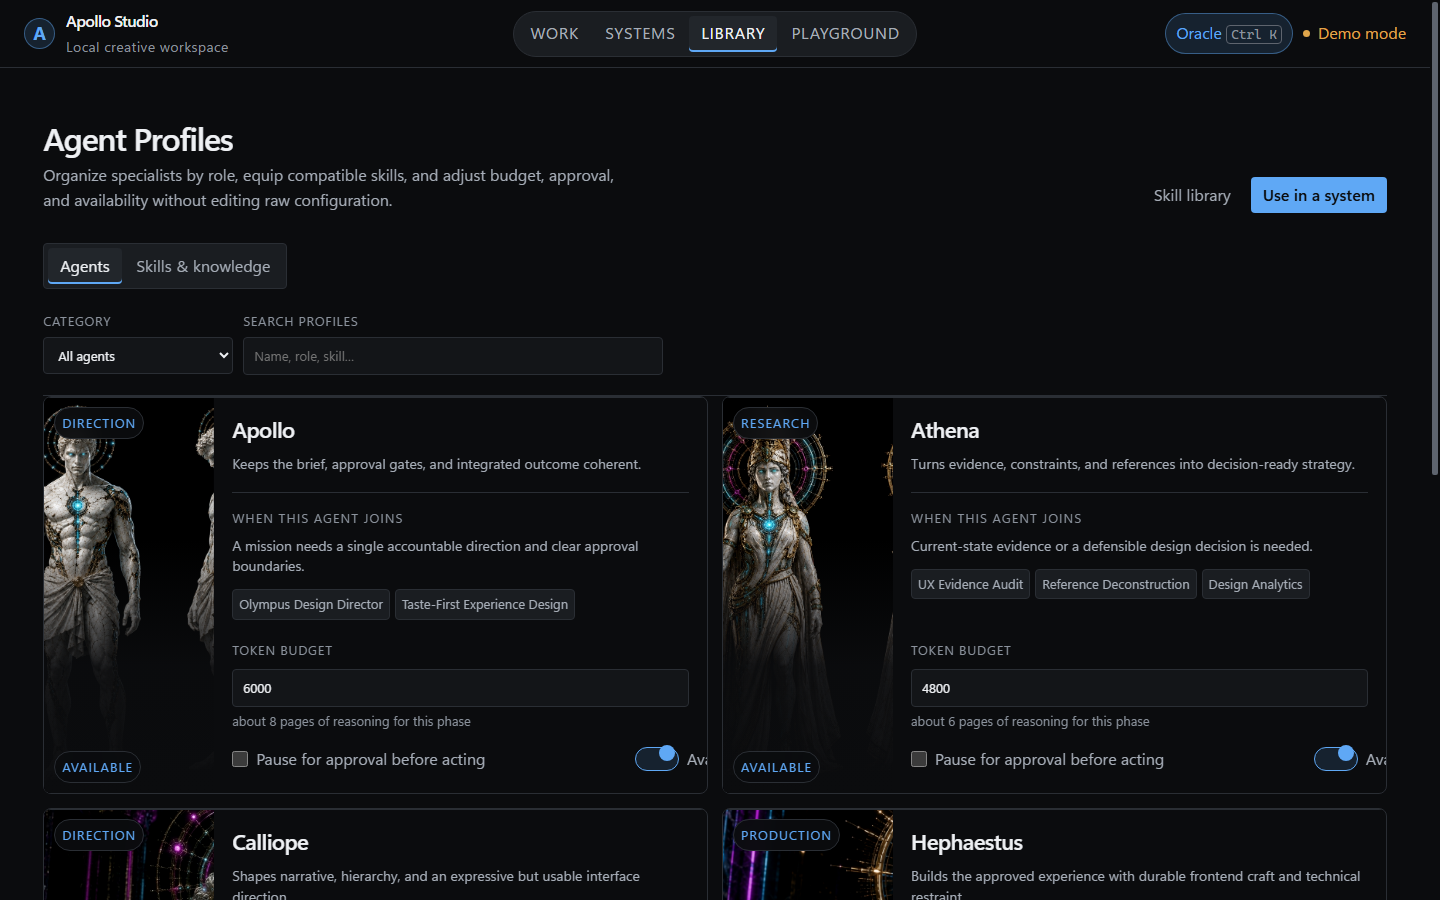
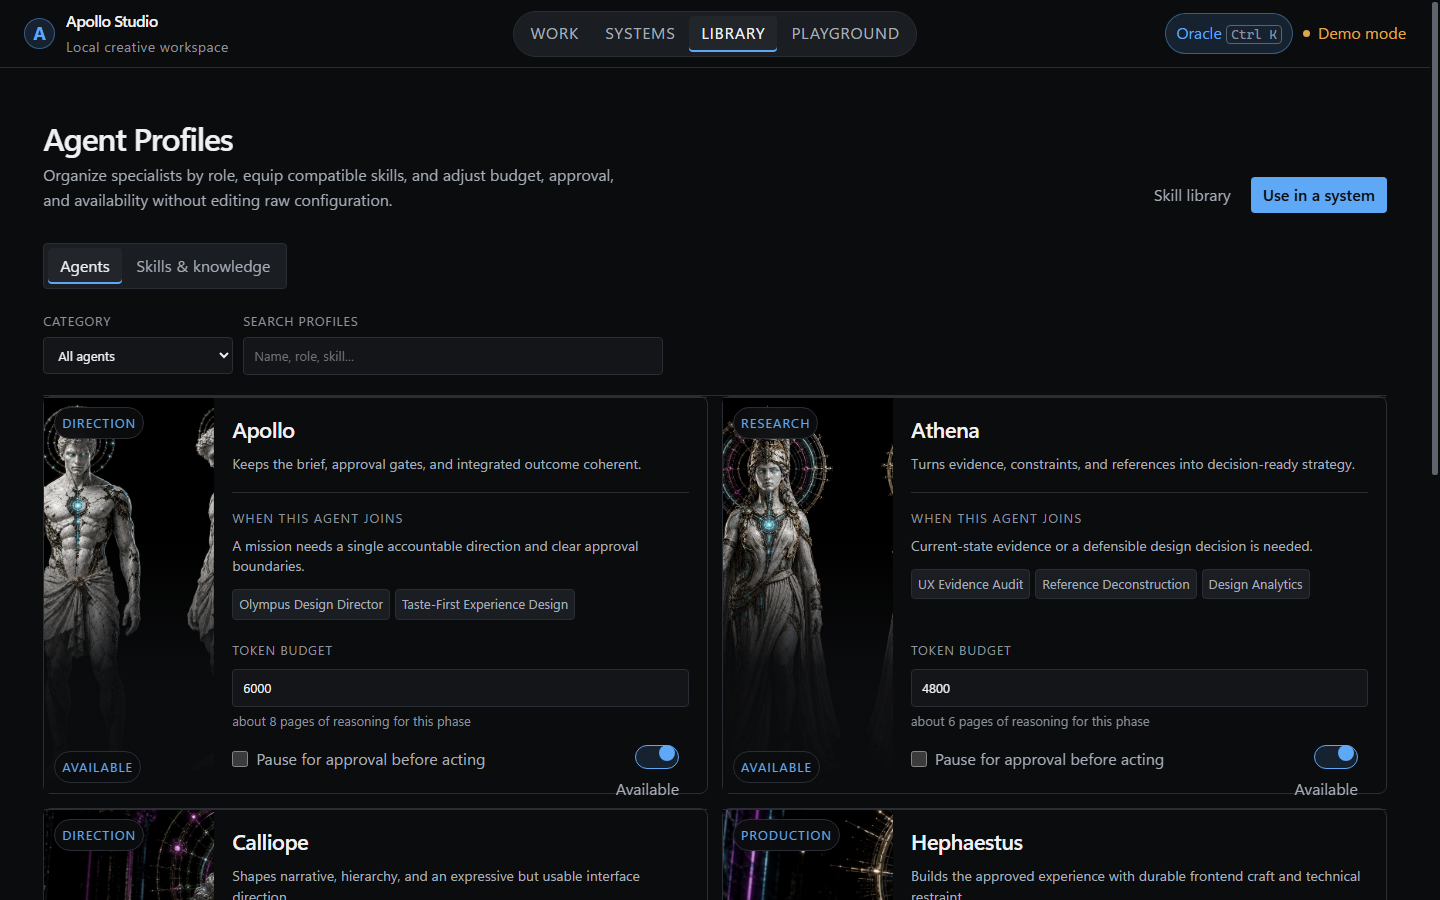
P5: clipping made a standing rule, portrait palette held back, phase closed
Screenshot evidence showed the agent-availability caption clipped by its own card at every
width - a class of defect no viewport-overflow test can see. The probe now walks every leaf
node's ancestor chain for a clipping container, and a new standing rule gates it: nothing
clipped by its own container at any measured viewport. Fixed the underlying grid at the same
time.

Read Calliope's and Hermes's portrait source images directly: both are full-saturation neon
that puts a second, uncontrolled palette on a screen whose colour system is one accent plus
status. Held back with saturate(.45) contrast(1.02) rather than deleted, since PRODUCT.md
keeps the mythological portraits as content; the asset-level decision stays open.

A second independent critique was launched to adversarially re-test the harness and failed on
a platform rate limit before returning a result - not a content problem. No score is recorded
for it; re-running it is the first item for the next session.

All eleven thresholds and all four standing rules pass. Closing this phase per instruction;
work continues in a new session.

diff --git a/apollo-studio/public/styles.css b/apollo-studio/public/styles.css
@@ -1468,11 +1468,6 @@ textarea { min-height: calc(var(--control-h) * 2); }
 
 /* The availability caption is a third column the agent controls grid has no room for below
    about 900px; it takes its own line there rather than pushing the card past the viewport. */
-@media (max-width: 1320px) {
-  .agent-controls { grid-template-columns: minmax(0, 1fr) auto; }
-  .agent-availability { flex-wrap: wrap; justify-content: flex-end; }
-  .switch-caption { flex-basis: 100%; text-align: end; }
-}
 
 @media (max-width: 900px) {
   .oracle-trigger { min-height: var(--control-h-narrow); }
@@ -1483,3 +1478,17 @@ textarea { min-height: calc(var(--control-h) * 2); }
 /* The accent marks the stage you have selected. That is what it is for. */
 .workflow-node[aria-pressed="true"] { border-color: var(--accent); box-shadow: inset 0 0 0 1px var(--accent); }
 .workflow-node[aria-pressed="true"] > span { color: var(--accent); }
+
+/* The availability caption was being cut off by the card at every width: a three-column
+   controls row has no slack for it. Two columns, with the switch and its caption as one
+   wrapping pair. */
+.agent-controls { grid-template-columns: minmax(0, 1fr) auto; row-gap: var(--space-4); }
+.agent-availability { flex-wrap: wrap; justify-content: flex-end; min-width: 0; }
+.agent-availability .switch-caption { flex: 0 0 auto; }
+.agent-profile { overflow: visible; }
+
+/* The agent portraits are content - they identify an agent, and PRODUCT.md keeps the
+   mythological identities. They are not a licence to import a second palette: at full
+   saturation they put magenta and violet on a screen whose whole colour system is one accent
+   plus status. Held back so identity survives and the neon stops competing. */
+.agent-portrait img { filter: saturate(.45) contrast(1.02); }

diff --git a/apollo-studio/PROGRESS-AND-DECISIONS.md b/apollo-studio/PROGRESS-AND-DECISIONS.md
@@ -1430,3 +1430,65 @@ honoured.
 identify nothing and import off-palette hues (an asset decision, not a CSS one), 495 spacing
 literals under a ratchet, and the uppercase-tracked label register remains dominant even after
 the promotion.
+
+## 2026-09-03 — P5: clipping made a standing rule, portrait palette held back, phase closed
+
+**Slice:** P5, part 8. Closing slice for this phase at the user's instruction — the run
+continues in a new session.
+
+### The defect a viewport test cannot see
+
+Screenshot evidence (`metrics/shots/agents-1440x900.png`) showed the availability caption
+("Available") cut off by the agent card's own right edge at every measured width — not pushed
+past the viewport, clipped by a component with `overflow` set. No prior check could see this
+class of defect: T5/overflow tests measure against the viewport, not against an arbitrary
+ancestor's box. The probe now walks every leaf node up its ancestor chain for any container
+that clips, and a new standing rule — **`clipping`: nothing clipped by its own container at
+any measured viewport** — gates it. Currently 0 across 820x1180, 1280x800, 1440x900 and
+1920x1080.
+
+Fixed the actual defect alongside it: `.agent-controls` was a three-column grid with no room
+for the caption; it is two columns now, with the switch and its caption wrapping as one unit.
+
+### Portrait palette
+
+Read `Calliope`'s and `Hermes`'s source images directly (not taking the prior critique's
+characterisation on faith): both are full-saturation neon — magenta, cyan, violet circuitry
+motifs — genuinely a second, uncontrolled palette on a screen whose entire colour system is
+one accent plus status. `PRODUCT.md` keeps the mythological portraits as content, so they are
+not deleted; `saturate(.45) contrast(1.02)` on `.agent-portrait img` holds the identity while
+retiring the competing hues. This is a CSS-only mitigation — the asset-level decision (crop,
+regenerate, or replace) stays open and undecided, not silently resolved.
+
+### The second independent critique
+
+Launched a second blind critique (same constraints: no journal, no plan file, fresh read of
+`DESIGN.md`/`PRODUCT.md`/source only) specifically to adversarially re-test the harness after
+the first critique's central finding — that the harness was passing rather than the artefact.
+**It failed on a platform rate limit before returning a result**, not on a content or
+methodology problem. No score or findings from it are recorded here; nothing was fabricated in
+its place. Re-running it is the first item for the next session, not a decision to skip it.
+
+### State at close
+
+All eleven thresholds pass. All four standing rules pass (motion budget in CSS and script,
+spacing-literal ratchet at 495, no clipping, `!important` confined to the reduced-motion
+reset). `npm.cmd run check` exits 0. Console clean; reduced motion honoured; no horizontal
+overflow and nothing clipped at 820, 1280, 1440 or 1920px; nothing clipped at 200% text zoom.
+Screenshots refreshed in `metrics/shots/`.
+
+**Known open items, explicitly not resolved this slice:**
+- The second independent critique has not actually run; its result and score are pending.
+- 495 spacing literals remain, under a ratchet that can only fall.
+- The uppercase-tracked label register is still the dominant secondary type treatment;
+  reduced from 74% to 53% at 13-14px, not eliminated.
+- Two agent portraits are held back by a filter, not resolved at the asset level.
+
+### Handoff to the next session
+
+Read the tail of this file, then run `node scripts/ui-metrics.mjs` to reconfirm the state
+recorded above before doing anything else — this is the resume procedure `RUN-PROMPT.md`
+specifies. If it reconfirms clean, the next slice is either: (a) re-run the independent
+critique properly and act on its findings, or (b) proceed to whatever the next phase in the
+plan calls for. Do not restart at P0 — P0 through P5's first eight parts are committed and
+verified in both repos on `redesign/loadout-program`.
